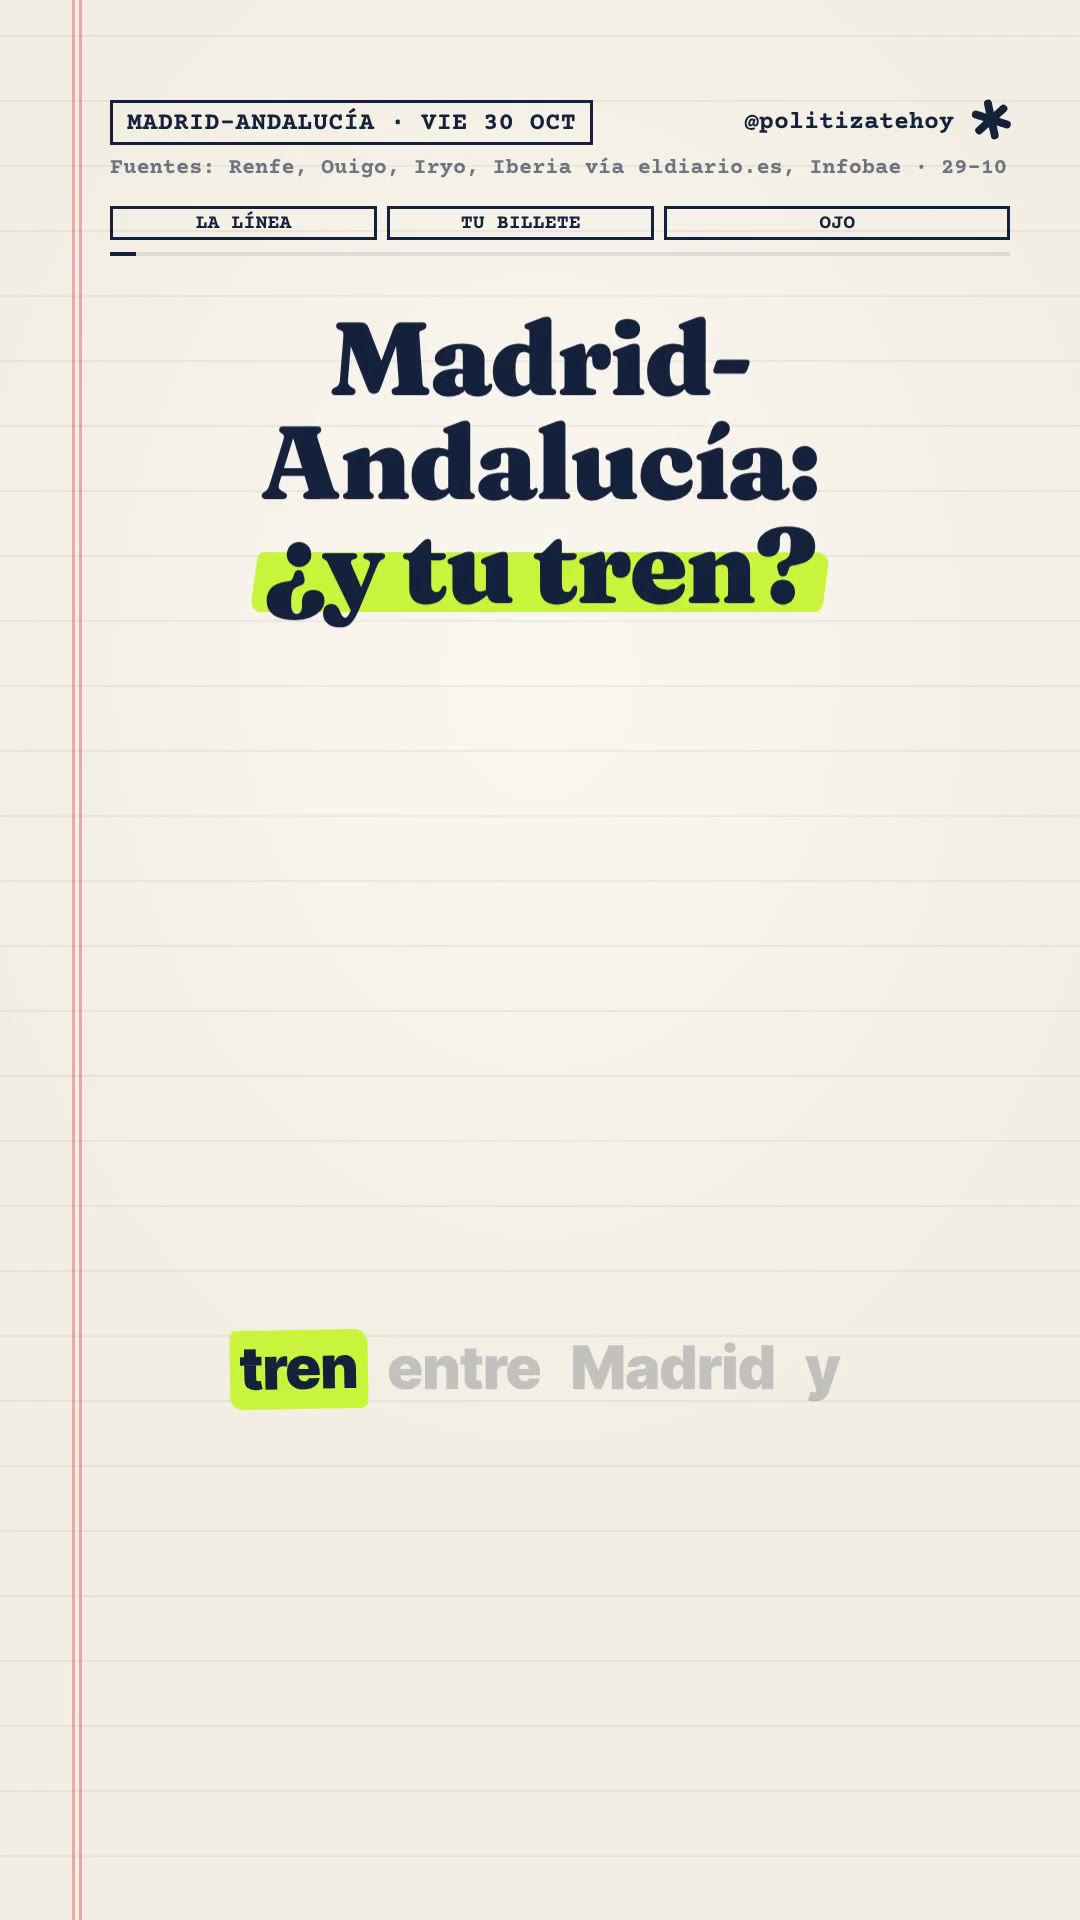
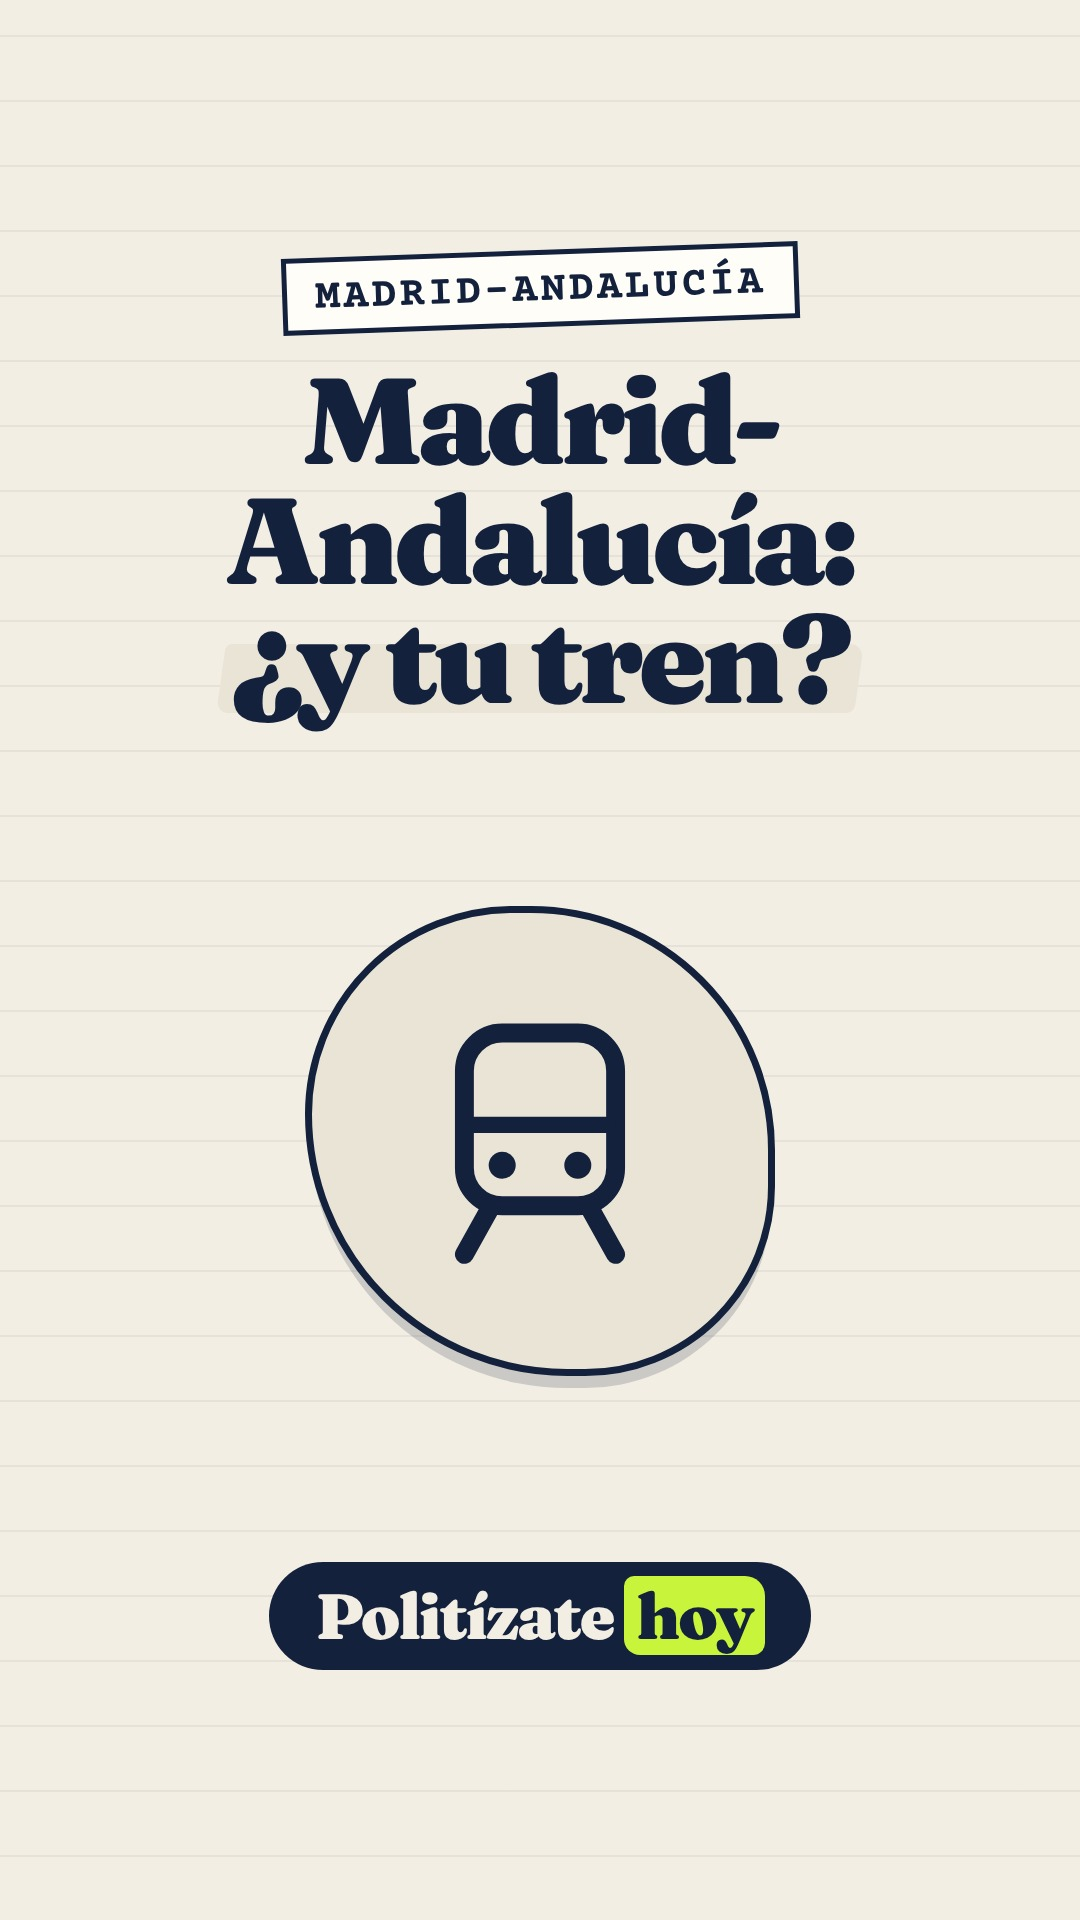
Portadas nuevas con diseño propio para todos los vídeos
Claude-Session: https://claude.ai/code/session_01EQgpbid6Z6ejkRKtKHbqA2

diff --git a/engine/slp.html b/engine/slp.html
@@ -128,4 +128,37 @@ function render(t){
  const ch=chunks.find(c=>t<c[c.length-1].t1+0.05);const cp=document.getElementById('caps');
  cp.innerHTML=(!ch||t<S.t0)?'':ch.map(w=>`<span class="${t>=w.t0&&t<w.t1?'now':(t<w.t0?'fut':'')}">${w.w}</span>`).join('');
 }
-</script></body></html>
+</script>
+<style>
+#cover{position:absolute;inset:0;display:none;background:repeating-linear-gradient(0deg,transparent 0 63px,var(--rule) 63px 65px),var(--paper)}
+#cover .safe{position:absolute;top:250px;bottom:250px;left:60px;right:60px;display:flex;flex-direction:column;align-items:center;justify-content:space-between}
+#cover .top{display:flex;flex-direction:column;align-items:center;gap:34px}
+#cover .ser{font:700 42px T;letter-spacing:3px;border:5px solid var(--ink);padding:12px 28px 8px;background:var(--card);transform:rotate(-2deg)}
+#cover .tit{text-align:center;font:900 156px/0.98 F;letter-spacing:-5px}
+#cover .tit .mk i{transform:scaleX(1) skewX(-8deg)!important}
+#cover .vis{width:470px;height:470px;border-radius:46% 54% 42% 58%;background:var(--mark);display:flex;align-items:center;justify-content:center;border:7px solid var(--ink);box-shadow:0 16px 0 -4px rgba(20,33,61,.18)}
+#cover .vis svg{width:270px;height:270px}
+#cover .vis .big{font:900 230px/1 F;letter-spacing:-8px}
+#cover .sub{font:800 52px/1.15 I;text-align:center;margin-top:-10px}
+#cover .brand{background:var(--ink);border-radius:60px;padding:22px 46px;font:900 64px/1 F;color:#F3EEE3;letter-spacing:-2px}
+#cover .brand b{background:var(--mark);color:var(--ink);padding:0 12px;border-radius:10px 20px 12px 16px;font-weight:900}
+#cover.serio .vis{background:#E9E4D6}
+#cover.serio .tit .mk i{background:#E9E4D6}
+</style>
+<div id="cover"><div class="safe"><div class="top"><div class="ser"></div><div class="tit"></div></div><div class="vis"></div><div class="sub"></div><div class="brand">Politízate <b>hoy</b></div></div></div>
+<script>
+async function renderCover(g){
+ document.getElementById('stage').style.display='none';
+ const c=document.getElementById('cover'); c.style.display='block'; if(g.tono==='serio')c.classList.add('serio');
+ const p=g.portada||{}; const first=g.scenes[0].segments.flatMap(s=>s.show);
+ const head=(first.find(e=>e.type==='headline')||{}).text||'';
+ const ic=p.icono||(first.find(e=>e.type==='icon')||first.find(e=>e.icon)||{}).icon||'doc';
+ c.querySelector('.ser').textContent=p.serie||((g.header||{}).tag||'').split('·')[0].trim();
+ const tt=p.titulo||head; const t=c.querySelector('.tit'); t.innerHTML=mk(tt);
+ const n=tt.replace(/\*/g,'').length; t.style.fontSize=(n>26?122:n>16?140:166)+'px';
+ const v=c.querySelector('.vis'); v.innerHTML=p.grande?`<div class="big">${p.grande}</div>`:(ICO[ic]||'');
+ const sb=c.querySelector('.sub'); sb.textContent=p.sub||''; sb.style.display=p.sub?'block':'none';
+ await document.fonts.ready;
+}
+</script>
+</body></html>

diff --git a/engine/cover.js b/engine/cover.js
@@ -1,0 +1,14 @@
+// guion -> portada 1080x1920 (lo importante dentro del recorte 3:4 de la cuadrícula de Instagram)
+const { chromium } = require('playwright');
+const fs = require('fs'), path = require('path');
+(async () => {
+  const [guion, out] = process.argv.slice(2);
+  const g = JSON.parse(fs.readFileSync(guion));
+  const b = await chromium.launch();
+  const p = await b.newPage({ viewport: { width: 1080, height: 1920 } });
+  await p.goto('file://' + path.join(__dirname, 'slp.html'));
+  await p.evaluate(async g => { await document.fonts.ready; await renderCover(g); }, g);
+  await p.waitForTimeout(150);
+  await p.screenshot({ path: out, type: 'jpeg', quality: 92 });
+  await b.close();
+})();

diff --git a/INSTRUCCIONES.md b/INSTRUCCIONES.md
@@ -71,6 +71,9 @@ Momentos ya conocidos: **13-N**, Jordi Wild publica en The Wild Project sus entr
 - Logo = el de la foto de perfil (`marca/perfil_v3.png`): círculo azul marino con "Politízate" en blanco y "hoy" en caja fosforito. Cierre de cada vídeo: elemento `logo` + sello "+ SEGUIR" (ver `guiones/slp_002_voto_correo.json`).
 - Cabecera con @politizatehoy, barra de cláusulas y sección final "La letra pequeña" en todos los vídeos.
 
+## Portadas (Nicks, 30-O: las de antes eran feas)
+`crear.sh` genera `videos/<id>.jpg` con `engine/cover.js` (diseño fijo: serie arriba, título grande con fosforito, mancha con icono, píldora de marca; todo dentro del recorte 3:4 de la cuadrícula de Instagram). Cada guion lleva `"portada": {"serie", "titulo" (con *marca*), "icono" o "grande" (un número/texto corto en vez de icono), "sub" (5–7 palabras)}`; si falta algo, se saca de la cabecera y del primer titular. Revisa la portada antes de programar: el icono tiene que tener sentido (nada de `doc` tachado o `person` tachado para cosas neutras). Iconos: rings, kids, house, doc, envelope, calendar, laptop, train, clock, phone, plane, question, urna, user.
+
 ## Tragedias y sucesos graves
 Con víctimas (accidentes, atentados, catástrofes): `"tono": "serio"` en el guion (sin música, sin sellos de broma), etiquetas de la barra con `"clauseLabels"` (p. ej. LO QUE SE SABE / LOS AUDIOS / LO QUE NO SE SABE) en vez de cláusulas y letra pequeña, cifras atribuidas y con hora, nada de culpables mientras haya investigación, y nunca imágenes o detalles morbosos.
 
